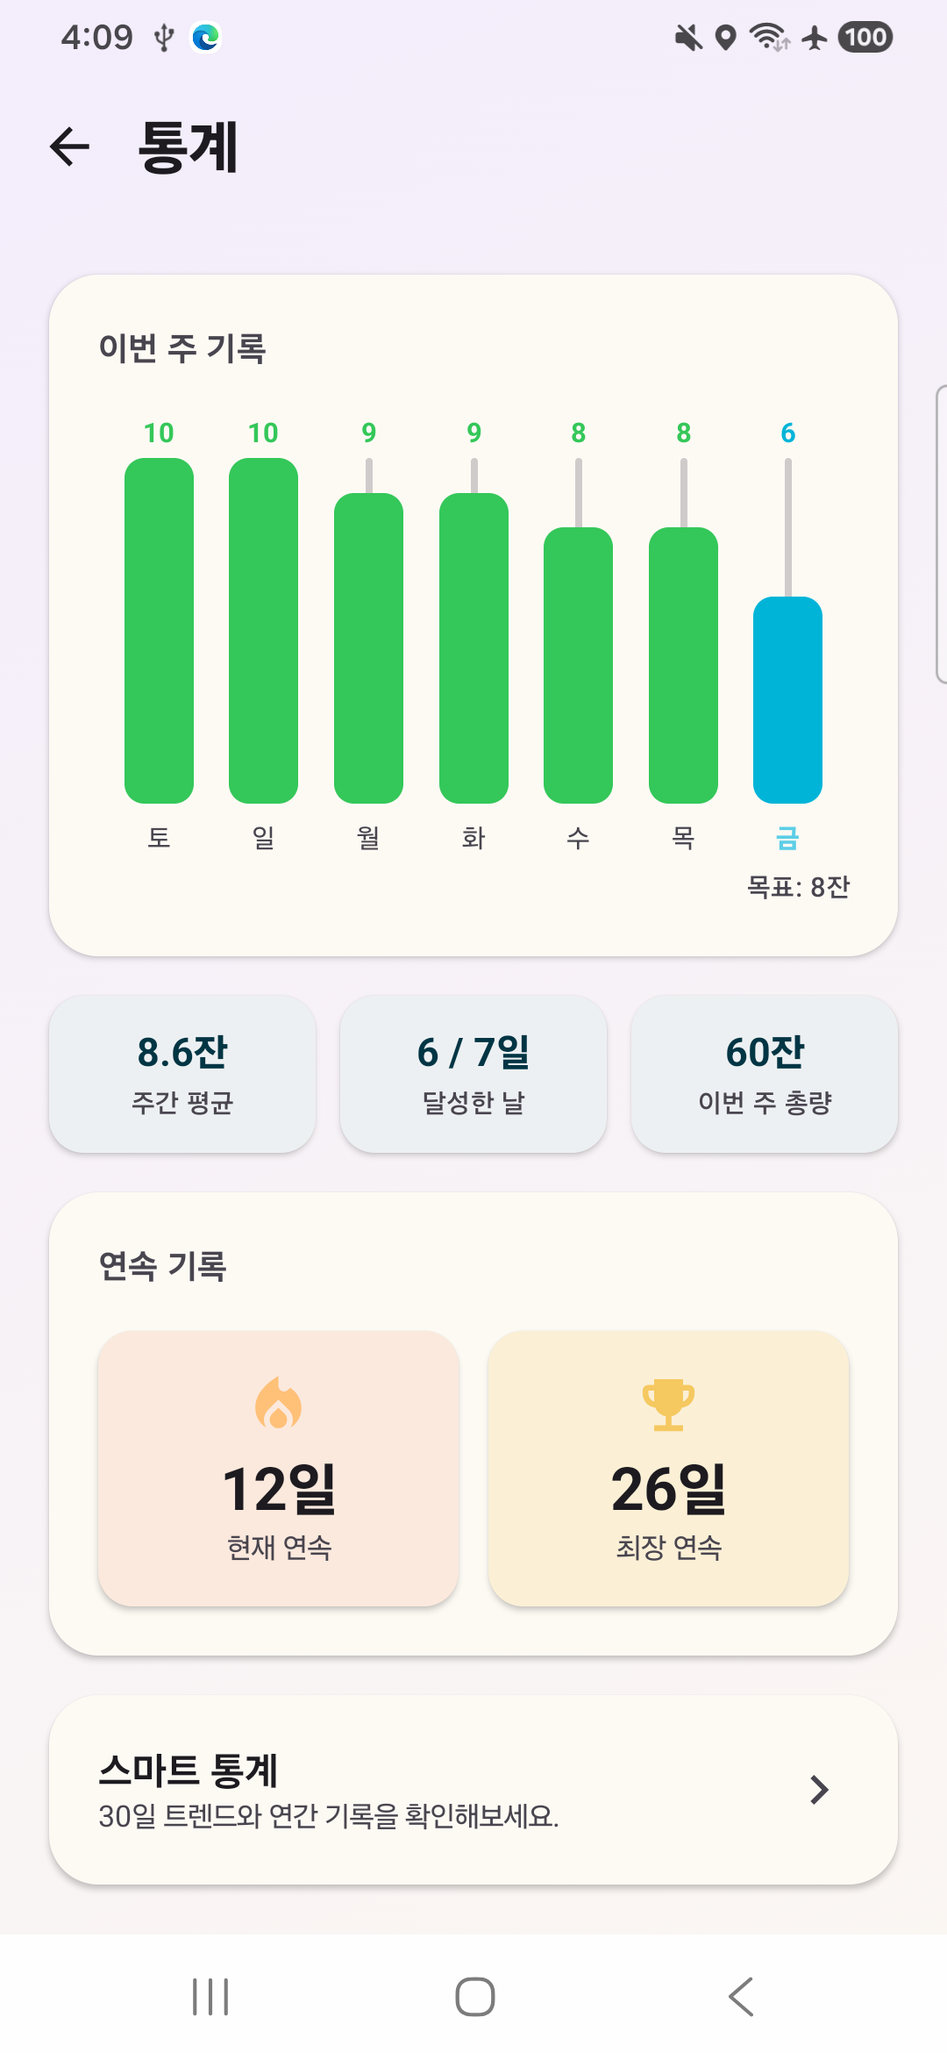
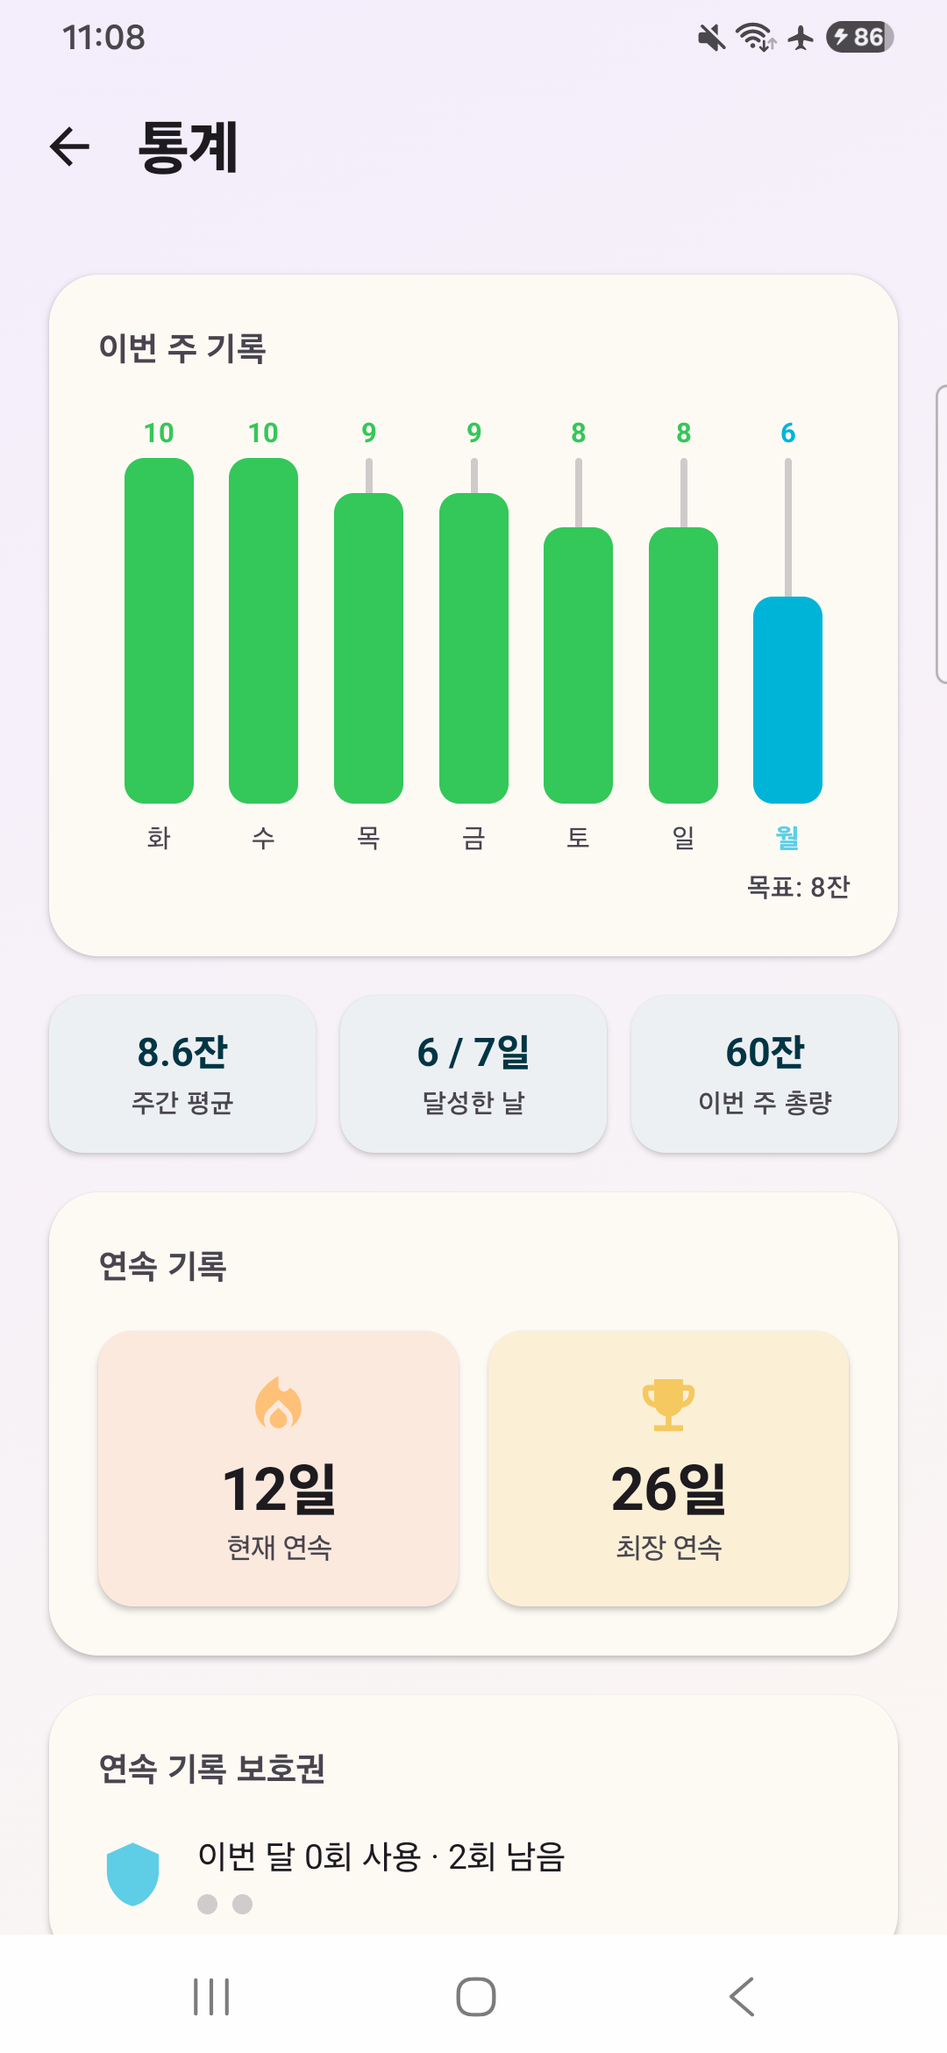
[feat] 연속 기록 보호권 UI 노출(통계 카드 + 발동 배너) + 05_stats.png 재촬영
웹 목업 A~F 중 C안 채택: 통계 화면에 "이번 달 N회 사용 · M회 남음" 카드를
상시 표시하고, 홈 화면엔 발동 순간에만 닫기 가능한 배너를 띄운다.
WaterRepository.protectionUsedCount()/HomeViewModel.checkProtectionTriggered()
신규, 테스트 1건 추가(전체 230개 통과), 실기기(SM-A256N) 라이트/다크 확인.

보호권 카드 추가로 무효화된 05_stats.png는 일회성 시딩 테스트로 원본과
동일한 패턴을 재현해 재촬영, 스토리보드 캡션도 갱신.

diff --git a/app/src/main/java/com/watering/app/features/stats/StatsScreen.kt b/app/src/main/java/com/watering/app/features/stats/StatsScreen.kt
@@ -15,14 +15,17 @@ import androidx.compose.foundation.layout.fillMaxWidth
 import androidx.compose.foundation.layout.height
 import androidx.compose.foundation.layout.padding
 import androidx.compose.foundation.layout.size
+import androidx.compose.foundation.layout.width
 import androidx.compose.foundation.lazy.LazyColumn
 import androidx.compose.foundation.shape.RoundedCornerShape
+import androidx.compose.foundation.shape.CircleShape
 import androidx.compose.ui.draw.shadow
 import androidx.compose.material.icons.Icons
 import androidx.compose.material.icons.automirrored.filled.ArrowBack
 import androidx.compose.material.icons.automirrored.filled.KeyboardArrowRight
 import androidx.compose.material.icons.filled.EmojiEvents
 import androidx.compose.material.icons.filled.LocalFireDepartment
+import androidx.compose.material.icons.filled.Shield
 import androidx.compose.material3.ExperimentalMaterial3Api
 import androidx.compose.material3.Icon
 import androidx.compose.material3.IconButton
@@ -142,6 +145,17 @@ fun StatsScreen(
                 }
             }
 
+            // 연속 기록 보호권 — 이전엔 백그라운드 로직으로만 동작해 발동 여부/잔여 횟수를 사용자가
+            // 알 방법이 없었음(2026-07-20, UI 노출 시안 C 채택)
+            item {
+                SectionCard(title = stringResource(R.string.stats_protection_section)) {
+                    ProtectionStatusRow(
+                        usedThisMonth = uiState.protectionUsedThisMonth,
+                        limit = uiState.protectionLimit
+                    )
+                }
+            }
+
             // 스마트 통계 (30일 트렌드 + 연간 기록)
             item {
                 SmartStatsCta(onNavigateToSmartStats = onNavigateToSmartStats)
@@ -201,6 +215,47 @@ fun SectionCard(title: String, content: @Composable () -> Unit) {
             )
             Spacer(Modifier.height(16.dp))
             content()
+        }
+    }
+}
+
+@Composable
+private fun ProtectionStatusRow(usedThisMonth: Int, limit: Int) {
+    Row(verticalAlignment = Alignment.CenterVertically) {
+        Icon(
+            imageVector = Icons.Filled.Shield,
+            contentDescription = null,
+            tint = MaterialTheme.colorScheme.primary,
+            modifier = Modifier.size(28.dp)
+        )
+        Spacer(Modifier.width(12.dp))
+        Column(modifier = Modifier.weight(1f)) {
+            Text(
+                text = stringResource(
+                    R.string.stats_protection_used_value,
+                    usedThisMonth,
+                    (limit - usedThisMonth).coerceAtLeast(0)
+                ),
+                style = MaterialTheme.typography.bodyMedium,
+                color = MaterialTheme.colorScheme.onSurface
+            )
+            Spacer(Modifier.height(6.dp))
+            Row(horizontalArrangement = Arrangement.spacedBy(6.dp)) {
+                repeat(limit) { index ->
+                    Box(
+                        modifier = Modifier
+                            .size(8.dp)
+                            .background(
+                                color = if (index < usedThisMonth) {
+                                    MaterialTheme.colorScheme.secondary
+                                } else {
+                                    MaterialTheme.colorScheme.onSurfaceVariant.copy(alpha = 0.25f)
+                                },
+                                shape = CircleShape
+                            )
+                    )
+                }
+            }
         }
     }
 }

diff --git a/app/src/main/java/com/watering/app/features/home/HomeScreen.kt b/app/src/main/java/com/watering/app/features/home/HomeScreen.kt
@@ -30,8 +30,11 @@ import androidx.compose.material.icons.filled.BarChart
 import androidx.compose.material.icons.filled.EmojiEvents
 import androidx.compose.material.icons.filled.LocalFireDepartment
 import androidx.compose.material.icons.filled.Settings
+import androidx.compose.material.icons.filled.Shield
+import androidx.compose.material.icons.filled.Close
 import androidx.compose.material.icons.filled.WaterDrop
 import androidx.compose.foundation.BorderStroke
+import androidx.compose.foundation.border
 import androidx.compose.material3.AlertDialog
 import androidx.compose.material3.Button
 import androidx.compose.material3.ButtonDefaults
@@ -75,6 +78,8 @@ import com.watering.app.core.model.WaterEntry
 import com.watering.app.features.record.RecordSheet
 import com.watering.app.ui.theme.AppBackgroundGradient
 import com.watering.app.ui.theme.AppCardBackgroundColor
+import com.watering.app.ui.theme.AppInfoBannerBackgroundColor
+import com.watering.app.ui.theme.AppInfoBannerBorderColor
 import com.watering.app.ui.theme.AppUndoTextColor
 import com.watering.app.ui.theme.DrinkBadge
 import kotlinx.coroutines.withTimeoutOrNull
@@ -96,6 +101,7 @@ fun HomeScreen(
     val uiState by viewModel.uiState.collectAsStateWithLifecycle()
     val snackbarMessage by viewModel.snackbarMessage.collectAsStateWithLifecycle()
     val pendingAchievement by viewModel.pendingAchievement.collectAsStateWithLifecycle()
+    val showProtectionBanner by viewModel.showProtectionBanner.collectAsStateWithLifecycle()
     val activity = LocalContext.current.findActivity()
     val snackbarHostState = remember { SnackbarHostState() }
     var showRecordSheet by remember { mutableStateOf(false) }
@@ -174,6 +180,13 @@ fun HomeScreen(
             horizontalAlignment = Alignment.CenterHorizontally,
             contentPadding = PaddingValues(start = 20.dp, end = 20.dp, bottom = 48.dp)
         ) {
+            if (showProtectionBanner) {
+                item {
+                    Spacer(Modifier.height(16.dp))
+                    ProtectionBanner(onDismiss = { viewModel.dismissProtectionBanner() })
+                }
+            }
+
             item {
                 Spacer(Modifier.height(16.dp))
                 AchievementRing(
@@ -307,6 +320,38 @@ fun HomeScreen(
                 onDismiss = { viewModel.dismissAchievement(activity) }
             )
         }
+        }
+    }
+}
+
+@Composable
+private fun ProtectionBanner(onDismiss: () -> Unit) {
+    Row(
+        modifier = Modifier
+            .fillMaxWidth()
+            .background(AppInfoBannerBackgroundColor, RoundedCornerShape(12.dp))
+            .border(1.5.dp, AppInfoBannerBorderColor, RoundedCornerShape(12.dp))
+            .padding(12.dp),
+        verticalAlignment = Alignment.CenterVertically
+    ) {
+        Icon(
+            Icons.Filled.Shield,
+            contentDescription = null,
+            tint = MaterialTheme.colorScheme.primary
+        )
+        Spacer(Modifier.width(10.dp))
+        Text(
+            stringResource(R.string.home_protection_banner),
+            style = MaterialTheme.typography.bodyMedium,
+            color = MaterialTheme.colorScheme.onSurface,
+            modifier = Modifier.weight(1f)
+        )
+        IconButton(onClick = onDismiss) {
+            Icon(
+                Icons.Filled.Close,
+                contentDescription = stringResource(R.string.content_description_dismiss),
+                tint = MaterialTheme.colorScheme.onSurfaceVariant
+            )
         }
     }
 }

diff --git a/app/src/main/java/com/watering/app/features/home/HomeViewModel.kt b/app/src/main/java/com/watering/app/features/home/HomeViewModel.kt
@@ -69,6 +69,21 @@ class HomeViewModel @Inject constructor(
     private val _pendingAchievement = MutableStateFlow<Achievement?>(null)
     val pendingAchievement: StateFlow<Achievement?> = _pendingAchievement
 
+    // 보호권이 방금 발동됐을 때만 잠깐 보여주는 배너 상태 (2026-07-20, UI 노출 시안 C 채택) —
+    // streak.protectionUsedDates에 오늘 날짜가 새로 추가됐는지로 판정
+    private val _showProtectionBanner = MutableStateFlow(false)
+    val showProtectionBanner: StateFlow<Boolean> = _showProtectionBanner
+
+    private fun checkProtectionTriggered(before: StreakInfo, after: StreakInfo, dateKey: String) {
+        if (dateKey in after.protectionUsedDates && dateKey !in before.protectionUsedDates) {
+            _showProtectionBanner.value = true
+        }
+    }
+
+    fun dismissProtectionBanner() {
+        _showProtectionBanner.value = false
+    }
+
     init {
         // 위젯 탭으로 달성했지만 아직 못 보여준 업적이 있으면 앱 진입 시 모달로 보여준다
         viewModelScope.launch {
@@ -87,6 +102,7 @@ class HomeViewModel @Inject constructor(
                     cupSize = current.settings.cupSize
                 )
                 val streak = waterService.updateStreak(result.updated, current.streak)
+                checkProtectionTriggered(current.streak, streak, result.updated.dateKey)
                 _snackbarMessage.value = context.getString(R.string.home_snackbar_water_recorded, current.settings.cupSize)
                 analyticsService.logRecordAdd(current.settings.cupSize, drinkType.name, source = "home")
                 achievementChecker.check(result.prev, result.updated, streak)?.let { _pendingAchievement.value = it }
@@ -108,6 +124,7 @@ class HomeViewModel @Inject constructor(
                     cupSize = current.settings.cupSize
                 )
                 val streak = waterService.updateStreak(result.updated, current.streak)
+                checkProtectionTriggered(current.streak, streak, result.updated.dateKey)
                 _snackbarMessage.value = context.getString(
                     R.string.home_snackbar_drink_recorded,
                     drinkType.emoji,

diff --git a/app/src/test/java/com/watering/app/features/stats/StatsViewModelTest.kt b/app/src/test/java/com/watering/app/features/stats/StatsViewModelTest.kt
@@ -48,6 +48,11 @@ class StatsViewModelTest {
             every { getHistory() } returns MutableStateFlow(history)
             every { this@mockk.todayRecord } returns MutableStateFlow(todayRecord)
             every { streakInfo } returns MutableStateFlow(streak)
+            every { protectionUsedCount(any(), any()) } answers {
+                val streakArg = firstArg<StreakInfo>()
+                val monthKey = secondArg<String>()
+                streakArg.protectionUsedDates.count { it.startsWith(monthKey) }
+            }
         }
         val settingsRepository = mockk<SettingsRepository> {
             every { userSettings } returns MutableStateFlow(settings)
@@ -150,6 +155,29 @@ class StatsViewModelTest {
             val state = awaitItem()
             val todayStat = state.weekStats.last()
             assertEquals(12, todayStat.goal) // record.goal(8)이 아닌 최신 설정(12) 반영
+        }
+    }
+
+    @Test
+    fun uiState_이번달보호권사용횟수를집계한다() = runTest(mainDispatcherRule.testDispatcher) {
+        // minusMonths(1)은 항상 다른 달이라 월 경계(매달 1일)에 실행돼도 흔들리지 않는 조합
+        val lastMonthDateKey = today.minusMonths(1).format(formatter)
+        val todayRecord = DayRecord(dateKey = todayKey, entries = emptyList(), goal = 8)
+        val viewModel = createViewModel(
+            todayRecord,
+            history = emptyMap(),
+            streak = StreakInfo(
+                currentStreak = 3,
+                longestStreak = 5,
+                protectionUsedDates = listOf(todayKey, lastMonthDateKey)
+            )
+        )
+
+        viewModel.uiState.test {
+            val state = awaitItem()
+            // lastMonthDateKey는 이번 달이 아니므로 집계에서 제외되고 todayKey만 반영
+            assertEquals(1, state.protectionUsedThisMonth)
+            assertEquals(WaterRepository.MONTHLY_PROTECTION_LIMIT, state.protectionLimit)
         }
     }
 

diff --git a/app/src/main/java/com/watering/app/core/data/WaterRepository.kt b/app/src/main/java/com/watering/app/core/data/WaterRepository.kt
@@ -18,7 +18,7 @@ class WaterRepository @Inject constructor(
     private val dataStore: WaterDataStore
 ) {
     companion object {
-        private const val MONTHLY_PROTECTION_LIMIT = 2
+        const val MONTHLY_PROTECTION_LIMIT = 2
     }
 
     private val formatter = DateTimeFormatter.ofPattern("yyyy-MM-dd")
@@ -28,6 +28,12 @@ class WaterRepository @Inject constructor(
     val streakInfo: Flow<StreakInfo> = dataStore.streakInfo
     fun getHistory(): Flow<Map<String, DayRecord>> = dataStore.getHistory()
     fun getAnnualHistory(): Flow<Map<String, DailyAchievement>> = dataStore.getAnnualHistory()
+
+    // 통계 화면의 "연속 기록 보호권" 카드가 이번 달 사용/잔여 횟수를 보여주기 위해 필요
+    // (2026-07-20, 보호권 UI 노출 시안 C 채택 — 이전까진 백그라운드 로직으로만 동작해 사용자가
+    // 발동 여부·잔여 횟수를 알 방법이 없었음)
+    fun protectionUsedCount(streak: StreakInfo, monthKey: String): Int =
+        streak.protectionUsedDates.count { it.startsWith(monthKey) }
 
     suspend fun addEntry(amount: Int, drinkType: DrinkType, goal: Int, cupSize: Int): WaterUpdateResult =
         dataStore.addEntry(amount, drinkType, goal, cupSize)

diff --git a/app/src/main/java/com/watering/app/features/stats/StatsViewModel.kt b/app/src/main/java/com/watering/app/features/stats/StatsViewModel.kt
@@ -33,7 +33,9 @@ data class StatsUiState(
     val goalDays: Int = 0,
     val weeklyTotal: Int = 0,
     val currentStreak: Int = 0,
-    val longestStreak: Int = 0
+    val longestStreak: Int = 0,
+    val protectionUsedThisMonth: Int = 0,
+    val protectionLimit: Int = WaterRepository.MONTHLY_PROTECTION_LIMIT
 )
 
 @HiltViewModel
@@ -79,13 +81,15 @@ class StatsViewModel @Inject constructor(
         }
 
         val counts = week.map { it.count }
+        val monthKey = todayDate.format(DateTimeFormatter.ofPattern("yyyy-MM"))
         StatsUiState(
             weekStats = week,
             weeklyAvg = if (counts.isEmpty()) 0.0 else counts.average(),
             goalDays = week.count { it.count >= it.goal },
             weeklyTotal = floor(counts.sum()).toInt(),
             currentStreak = streak.currentStreak,
-            longestStreak = streak.longestStreak
+            longestStreak = streak.longestStreak,
+            protectionUsedThisMonth = waterRepository.protectionUsedCount(streak, monthKey)
         )
     }.stateIn(viewModelScope, SharingStarted.WhileSubscribed(5_000), StatsUiState())
 }

diff --git a/docs/store/screenshot_storyboard.html b/docs/store/screenshot_storyboard.html
@@ -173,7 +173,7 @@
           <!-- 이 화면은 카드가 꽉 차있음 — 유일하게 빈 상단 헤더 바(3~9%) 배경에 배치, 꼬리가 아래 차트를 가리킴 -->
           <div class="bubble tail-br" style="top:3%; right:6%;"><span class="drop">👏</span>이번 주 대박!</div>
         </div>
-        <div class="caption">05_stats — 주간 바 차트 + 연속 기록 카드</div>
+        <div class="caption">05_stats — 주간 바 차트 + 연속 기록 카드 + 보호권 카드</div>
       </div>
       <div class="arrow">→</div>
       <div class="step">

diff --git a/docs/개발보고서.md b/docs/개발보고서.md
@@ -3478,10 +3478,18 @@
     필드 교체에 별도 마이그레이션 불필요(기존 사용자는 이번 배포로 "이번 달 보호권 미사용"
     상태로 한 번 리셋되나, 비공개 테스트 단계라 영향 미미). `WaterRepositoryTest`에 신규 테스트
     2건(월 2회 한도 검증, 버그 재현 회귀 테스트) 추가 + 기존 4건 갱신, 전체 229개 테스트
-    전원 통과 확인. **참고**: 조사 중 이 기능이 현재 완전히 백그라운드 로직으로만 동작하고
-    발동 여부/잔여 횟수를 사용자에게 알리는 UI가 어디에도 없다는 것도 확인함(유일한 설명 문구는
-    네비게이션 진입점이 없는 휴면 `PremiumScreen`에만 존재) — UI 노출 여부/방식은 별도 디자인
-    시안으로 제시, 아직 실제 구현은 안 함
+    전원 통과 확인. **UI 노출 — 2026-07-20 완료**. 조사 중 이 기능이 완전히 백그라운드 로직으로만
+    동작하고 발동 여부/잔여 횟수를 사용자에게 알리는 UI가 어디에도 없다는 것을 확인해(유일한 설명
+    문구는 네비게이션 진입점이 없는 휴면 `PremiumScreen`에만 존재), 웹 목업 6안(A~F) 비교 후 C안
+    (통계 화면 전용 카드 + 발동 시 홈 배너) 채택. `WaterRepository.protectionUsedCount()` 신규,
+    `StatsViewModel`에 `protectionUsedThisMonth`/`protectionLimit` 추가해 통계 화면에 "이번 달 N회
+    사용 · M회 남음" 카드(방패 아이콘 + 점 인디케이터)를 상시 표시. `HomeViewModel`에
+    `checkProtectionTriggered()` 신규 — `addWater`/`addWaterCustom` 직후 `streak.protectionUsedDates`에
+    오늘 날짜가 새로 추가됐는지 비교해 발동 시에만 홈 화면 상단에 배너(기존 안내 배너와 동일한
+    틸+골드 보더 패턴, 닫기 가능) 노출. `StatsViewModelTest`에 회귀 테스트 1건 추가(전체 230개 통과).
+    실기기(Galaxy A25) 라이트/다크 모드 모두 확인 완료 — 홈 배너는 실제 발동 조건(하루 공백 후
+    재달성)을 이번 세션에서 인위로 재현하진 않았으나, 기반 로직(`protectionUsedDates` 갱신)은 기존
+    회귀 테스트로 이미 검증됨
   - [x] 🟡 ③ 컵 크기를 확 줄이면 당일 기록이 새 크기 기준으로 재분모되어 즉시 달성될 수 있음 —
     2026-07-17 수정 완료. 실제 원인은 처음 추정(위젯 재기록 시 재분모)과 달리 **①과 같은 함수**
     였음: `syncStreakForGoalChange`가 저장된 `today.cupSize`(마지막 기록 시점 옛 스냅샷)를 그대로
@@ -3812,7 +3820,19 @@
   섹션도 스토리보드 말풍선과 같은 캐주얼한 톤으로 다듬음. 스크린샷 4번(30일 트렌드/연간 히트맵)이
   본문에 전혀 언급 안 되던 것도 "내 패턴을 알면 습관이 쉬워져요" 섹션 신규 추가로 동기화.
   잠금화면은 기획서 1-1 포지셔닝 피벗 결정대로 헤드라인 승격 없이 괄호 부연으로만 유지
-- **진행 순서**: ~~스크린샷 재촬영~~(완료) → ~~설명 카피 조정~~(완료). 비공개 테스트 종료(2026-07-24)
+- [x] **`05_stats.png` 재촬영 (2026-07-20 후속)** — 연속 기록 보호권 UI 노출(위 "목표 달성 악용
+  가능성" ② 참고)로 통계 화면에 카드가 하나 늘어 기존 스크린샷 프레임에서 "스마트 통계" CTA가
+  잘려 무효화됨. 실기기(SM-A256N)에 일회성 `ScreenshotSeedTest.kt`(촬영 후 삭제)로 원본과 동일한
+  패턴(12일 연속·26일 최장·8.6잔 평균·6/7일·60잔)을 오늘 날짜 기준으로 재현해 재촬영. 나머지
+  6장+보너스는 이번 변경과 무관해 재촬영 불필요.
+  **막혔던 점**: `./gradlew connectedDebugAndroidTest`가 테스트 종료 후 앱을 자동 언인스톨해(시딩한
+  데이터까지 함께 삭제) 두 번 허탕 — `adb install`로 앱/테스트 APK를 직접 설치하고
+  `adb shell am instrument`로 직접 실행하는 방식으로 우회. 재설치로 온보딩 미완료 상태가 된 것도
+  발견해 시딩 코드에 `SettingsRepository.completeOnboarding()` 호출 추가. 이 기기의 데모 모드
+  상태바(One UI)는 시각/배터리 오버라이드가 적용되지 않아 실제 상태바 그대로 촬영(원본과 동일한
+  음소거/와이파이/비행기 모드 아이콘 조합은 유지됨)
+- **진행 순서**: ~~스크린샷 재촬영~~(완료) → ~~설명 카피 조정~~(완료) → ~~05_stats.png 후속
+  재촬영~~(완료). 비공개 테스트 종료(2026-07-24)
   전 마무리 완료
 
 **백업/복원 실기기 검증 우선순위 재조정 (2026-07-09)**: 이번 주 스토어 등록을 우선 진행하기로
@@ -4007,3 +4027,5 @@ SettingsScreen "구글로 로그인" 클릭
 | 2026-07-09 | [docs] 스토어 512×512 아이콘을 v0.31.11 최신 런처 아이콘("CHEERS!" 캐릭터)으로 교체 |
 | 2026-07-20 | [docs] 스토어 설명(리스팅 카피) 재작업 — 짧은 설명/전체 설명을 페인포인트→메커니즘→무료 신뢰 신호 순 후킹형으로 재작성, 스마트 통계(30일 트렌드) 섹션 신규 추가 |
 | 2026-07-20 | [fix] 연속 기록 보호권 월 1회→2회 완화 + 롤백 버그 근본 수정 — `StreakInfo.protectionUsedDates: List<String>`로 교체, `rollbackStreakAfterUndo()` 정확한 날짜 대조 방식으로 변경, 테스트 2건 추가/4건 갱신(전체 229개 통과) |
+| 2026-07-20 | [feat] 연속 기록 보호권 UI 노출(웹 목업 A~F 중 C안 채택) — 통계 화면 전용 카드("이번 달 N회 사용 · M회 남음" + 점 인디케이터) 상시 표시 + 홈 화면 발동 시 배너, `WaterRepository.protectionUsedCount()`/`HomeViewModel.checkProtectionTriggered()` 신규, 테스트 1건 추가(전체 230개 통과), 실기기(SM-A256N) 라이트/다크 확인 |
+| 2026-07-20 | [docs] `05_stats.png` 재촬영 — 보호권 카드 추가로 무효화된 통계 화면 스토어 스크린샷을 일회성 시딩 테스트로 원본과 동일한 사용 패턴 재현 후 재촬영 |
